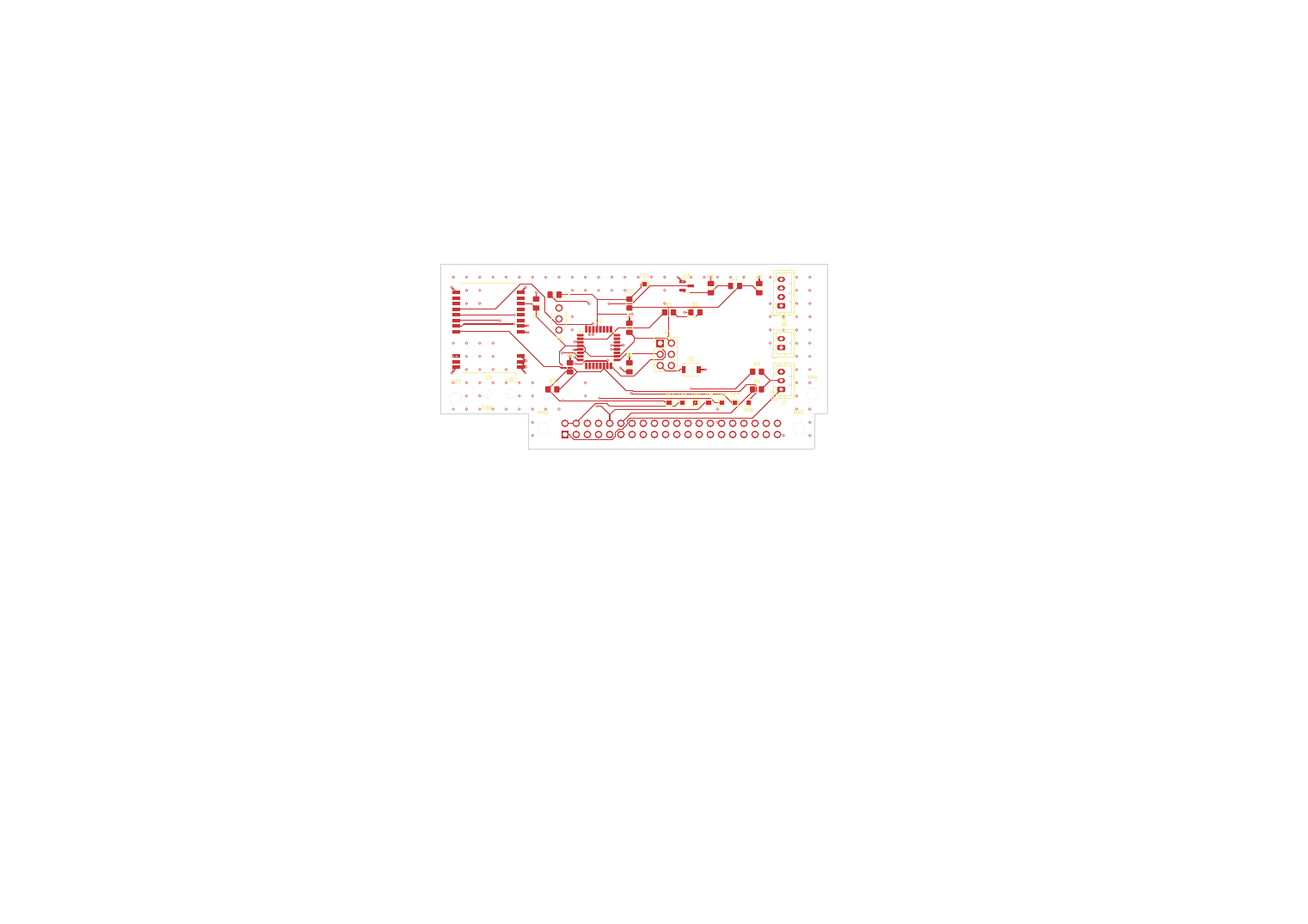
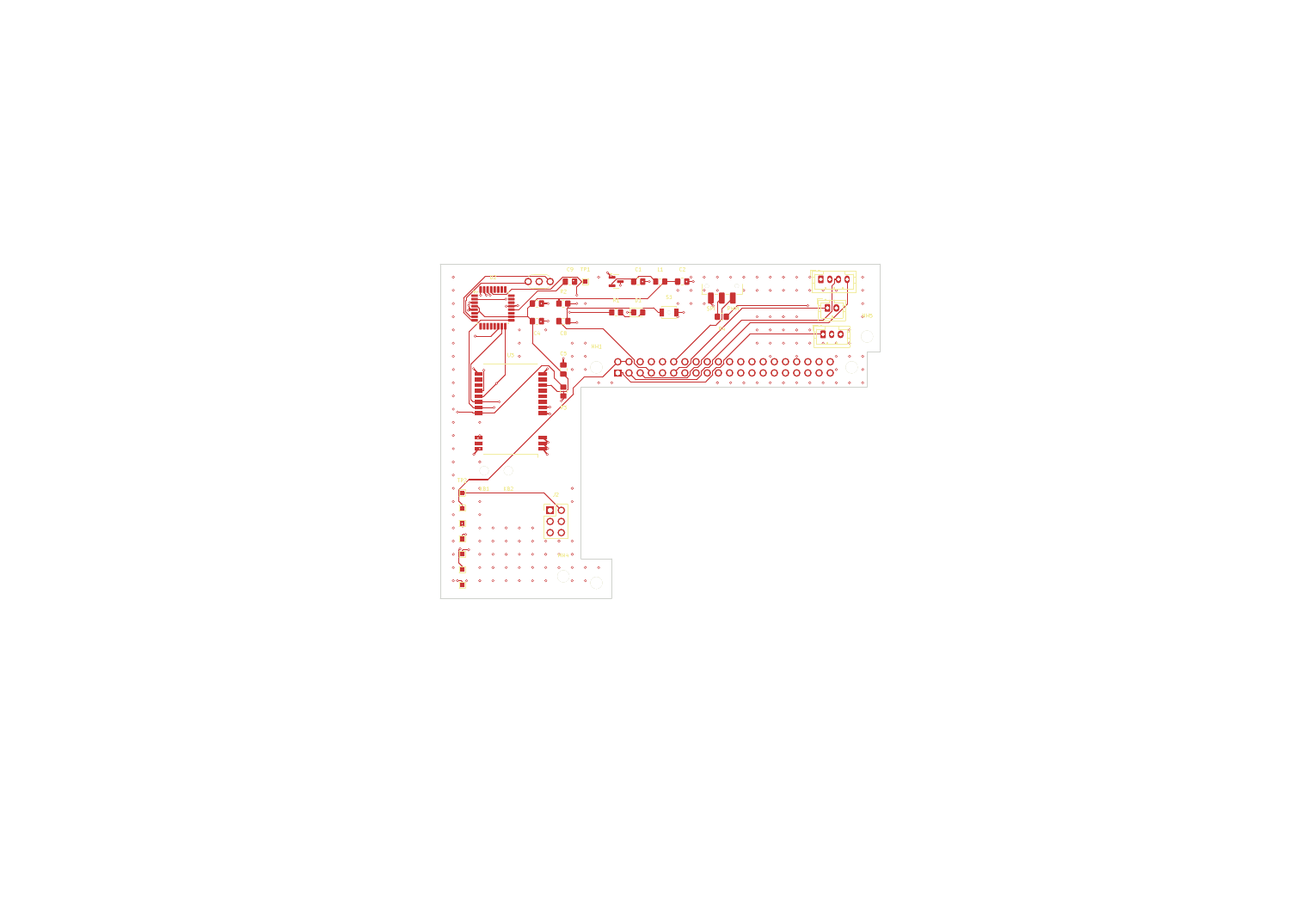
Doku und Handbuch auf Hardware v0.2.0 und das Protokoll nachgezogen
Die Platine geht in Produktion — also muss die Doku stimmen. Durchgesehen
und korrigiert:

README: Bauform L-foermig 100 x 76 mm statt der alten T-Beschreibung, der
Schiebeschalter SW1 statt der Regel „R4 oder R5", Projektstand auf „in
Produktion", Protokoll (M13) in die Tabelle und den Verzeichnisbaum.

Bestellliste: R5 (0 Ohm) entfaellt, dafuer R4 = 330 Ohm und der Schalter
C&K JS102011SAQN; der Hinweis zur JLCPCB-Bestueckung nennt die neuen
Teilenummern.

Handbuch (jetzt 64 Seiten):
- Kapitel 4: Bauteilgruppen mit SW1 und R4, neuer Kasten „Der Schalter
  SW1: PWM oder SPI" mit der Begruendung je Pi-Generation, Bildunterschrift
  mit den tatsaechlichen Massen.
- Kapitel 5: Umriss L-foermig 100 x 76, Schalter in der Bestueckungstabelle,
  keine unbestueckten Plaetze mehr.
- Kapitel 10.3: aus dem R5-Kasten wird die Schalterstellung.
- **Neues Kapitel 22 „Protokoll: wenn etwas nicht stimmt"** — die vier
  Stufen, Aufbewahrung, was mitgeschrieben wird, warum Unterspannung sofort
  als Fehler erscheint, das mitgelesene Systemjournal und eine
  Schritt-fuer-Schritt-Anleitung fuer den Ausfall. Fehlersuche und Anhang
  entsprechend auf 23 und 24 verschoben, Inhaltsverzeichnis angepasst.
- Fehlersuche: Zeile zur dunklen Status-LED nennt jetzt Schalterstellung,
  Audio und SPI; Pin-Tabelle auf SW1 umgestellt.
- Platinenbilder (oben, unten, schraeg) neu gerendert — sie zeigen die
  tatsaechliche L-Platine samt der Beschriftung SPI/PWM.

Changed region(s): [[0.3399, 0.2763, 0.6489, 0.4912], [0.3399, 0.5219, 0.3708, 0.6447], [0.4017, 0.5219, 0.4326, 0.5833]]

diff --git a/docs/handbuch/handbuch.html b/docs/handbuch/handbuch.html
@@ -164,8 +164,9 @@ sudo apt update</pre>
   <li><span class="nr">19</span> Langzeitdaten: InfluxDB und Grafana</li>
   <li><span class="nr">20</span> Der ioBroker-Adapter</li>
   <li><span class="nr">21</span> Sicherheit: Token, Netzwerk, Grenzen</li>
-  <li><span class="nr">22</span> Fehlersuche</li>
-  <li><span class="nr">23</span> Anhang: Belegungen, Glossar, Quellen</li>
+  <li><span class="nr">22</span> Protokoll: wenn etwas nicht stimmt</li>
+  <li><span class="nr">23</span> Fehlersuche</li>
+  <li><span class="nr">24</span> Anhang: Belegungen, Glossar, Quellen</li>
 </ol>
 </div>
 
@@ -360,9 +361,12 @@ es da sitzt.</p>
 
 <figure class="rahmen">
   <img src="img/platine-oben.png" alt="Platine von oben">
-  <figcaption>Die Platine von oben. Der schmale <strong>Arm</strong> unten trägt die
-  2×20-Buchse (J1) und ragt über den Pi; der breite <strong>Körper</strong> mit allen
-  Bauteilen liegt daneben.</figcaption>
+  <figcaption>Die Platine von oben, 100 × 76 mm. Der schmale <strong>Arm</strong>
+  trägt die 2×20-Buchse (J1) und ragt 8 mm über den Pi; der <strong>Streifen</strong>
+  darüber liegt neben dem Pi (höchstens 20 mm breit), der <strong>Schenkel</strong>
+  links steht 32 mm hinter der SD-Kante und trägt das Funkmodul. Über dem Pi liegt
+  sonst nur eine kleine Nase am hinteren Befestigungsloch — der Lüfter des PoE-HAT
+  bleibt frei.</figcaption>
 </figure>
 
 <h2>4.1 Warum diese T-Form?</h2>
@@ -405,16 +409,28 @@ der Platinenunterseite.</div>
 <tr><td><strong>Reset-Strecke</strong></td><td>C8, R2, S1, TP1</td><td>Über GPIO4 des Pi kann der Mikrocontroller neu gestartet werden (für Firmware-Updates, Kapitel 11). C8 koppelt nur den Impuls, R2 hält die Leitung in Ruhe oben, S1 ist der Taster für den Handreset.</td></tr>
 <tr><td><strong>SPI-Verteilung</strong></td><td>R3</td><td>Mikrocontroller, Funkmodul und Programmieranschluss teilen sich den SPI-Bus. R3 sorgt dafür, dass das Funkmodul still ist, während programmiert wird.</td></tr>
 <tr><td><strong>Status-LED</strong></td><td>R1, D1</td><td>Blitzt bei jedem empfangenen Telegramm kurz auf.</td></tr>
-<tr><td><strong>Peripherie</strong></td><td>J5, J6, J7, R5, (R4)</td><td>Stecker für OLED-Display, Taster und WS2812-LED des Status-LED-Projekts. R5 (0 Ω) führt die LED-Datenleitung zum SPI-Pin des Pi.</td></tr>
+<tr><td><strong>Peripherie</strong></td><td>J5, J6, J7, SW1, R4</td><td>Stecker für OLED-Display, Taster und WS2812-LED des Status-LED-Projekts. Der Schiebeschalter SW1 an der Außenkante wählt, über welchen Pi-Pin die LED-Daten laufen; R4 (330 Ω) ist der gemeinsame Serienwiderstand dahinter.</td></tr>
 <tr><td><strong>Prüfpunkte</strong></td><td>TP1–TP8</td><td>Kleine Messpads für Multimeter und Fehlersuche (Belegung im Anhang).</td></tr>
 </table>
 
-<div class="hinweis box"><span class="titel">ℹ R5 oder R4 — nie beide</span>
-Die WS2812-LED kann vom Pi über zwei verschiedene Pins angesteuert werden:
-<strong>GPIO10</strong> (SPI, der Normalfall → R5 bestückt — diesen Weg nutzt die
-Analyzer-Software) oder <strong>GPIO18</strong> (PWM-Variante → stattdessen R4
-bestücken). R4 bleibt in der Standardbestückung leer — die leeren Pads sind
-kein Fehler.</div>
+<div class="hinweis box"><span class="titel">ℹ Der Schalter SW1: PWM oder SPI</span>
+Die WS2812-LED kann vom Pi über zwei verschiedene Pins angesteuert werden, und
+seit Hardware v0.2.0 wählt das ein kleiner Schiebeschalter an der Außenkante —
+kein Umlöten mehr. Der Bestückungsdruck beschriftet beide Stellungen:
+<ul style="margin:1mm 0">
+<li><strong>SPI</strong> (GPIO10) — Vorgabe auf dem <strong>Raspberry Pi 5</strong>.
+Dort scheiden die PWM-Bibliotheken aus, weil die Anschlüsse am RP1-Chip hängen.</li>
+<li><strong>PWM</strong> (GPIO18) — Vorgabe auf <strong>Pi 3 und Pi 4</strong>.
+Dort wandert der SPI-Takt mit dem Kerntakt des Prozessors, was das empfindliche
+Zeitraster der LED zerreißt (Flackern, Farbsprünge).</li>
+</ul>
+Der Installer erkennt das Modell und stellt die Software passend ein; der
+Schalter muss dazu passen. Umstellen lässt sich beides jederzeit unter
+<strong>Einstellungen → Status-LED &amp; OLED</strong>.
+<br><br>Die Beschriftung benennt die <em>Anschlüsse</em>. Ob der Schieber zur
+beschrifteten Seite hin schaltet oder von ihr weg, gibt der Hersteller nicht
+frei zugänglich an — mit einem Durchgangsprüfer ist es beim ersten Aufbau in
+zehn Sekunden geklärt.</div>
 
 <figure class="rahmen">
   <img src="img/platine-unten.png" alt="Platine von unten">
@@ -449,7 +465,7 @@ funktionieren analog.</p>
 wählen. Die komplette ZIP hochladen — das Portal findet die Gerber-Dateien im
 Unterordner selbst. (Falls nicht: nur den Inhalt von <code>gerber/</code> als
 eigene ZIP hochladen.)</li>
-<li>Die Vorschau prüfen: T-förmiger Umriss, 88 × 42 mm. Erkennt das Portal
+<li>Die Vorschau prüfen: <strong>L-förmiger</strong> Umriss, 100 × 76 mm. Erkennt das Portal
 <strong>4 Lagen</strong> und <strong>1,6 mm</strong> Dicke, passt alles — beide Werte
 stehen im mitgelieferten Jobfile.</li>
 <li>Optionen: Standardwerte genügen. Lötstopplack-Farbe nach Geschmack;
@@ -475,15 +491,17 @@ Resonator Y1 — es fehlen nur noch Funkmodul und Steckverbinder.</li>
 <tr><td>Y1</td><td>Resonator Murata CSTLS8M00G53-B0 <span class="klein">(bedrahtet — JLCPCB lötet ihn in der Welle mit)</span></td><td>C83707</td><td>Extended</td></tr>
 <tr><td>L1</td><td>Ferrit BLM21PG300SN1D</td><td>C16903</td><td>Extended</td></tr>
 <tr><td>D1</td><td>LED rot 0805</td><td>C84256</td><td>Basic</td></tr>
-<tr><td>R1 / R5 / R2,R3</td><td>330 Ω / 0 Ω / 10 kΩ</td><td>C17630 / C17477 / C17414</td><td>Basic</td></tr>
+<tr><td>R1, R4 / R2, R3</td><td>330 Ω / 10 kΩ</td><td>C17630 / C17414</td><td>Basic</td></tr>
+<tr><td>SW1</td><td>Schiebeschalter C&amp;K JS102011SAQN <span class="klein">(wählt PWM oder SPI für die LED-Daten)</span></td><td>C221660</td><td>Extended</td></tr>
 <tr><td>C1,C2</td><td>10 µF 25 V</td><td>C15850</td><td>Basic</td></tr>
 <tr><td>C3–C5,C8,C9</td><td>100 nF 50 V</td><td>C49678</td><td>Basic</td></tr>
 </table>
 
-<p><strong>Nicht bestückt werden:</strong> das Funkmodul U3 (führt JLCPCB nicht),
-R4 (absichtlich leer — die PWM-Alternative zu R5) sowie die bedrahteten
-Steckverbinder J1, J2 und J5–J7. Die kommen in Kapitel 6 von Hand drauf.
-Der Resonator Y1 ist zwar auch bedrahtet, wird aber von JLCPCB mitbestückt.</p>
+<p><strong>Nicht bestückt werden:</strong> das Funkmodul U3 (führt JLCPCB nicht)
+und die bedrahteten Steckverbinder J1, J2 und J5–J7. Die kommen in Kapitel 6
+von Hand drauf. Der Resonator Y1 ist zwar auch bedrahtet, wird aber von JLCPCB
+mitbestückt. Unbestückte Plätze gibt es seit v0.2.0 keine mehr — die frühere
+Regel „R4 oder R5" hat der Schiebeschalter SW1 abgelöst.</p>
 
 <h2>5.4 Die Bestückungsvorschau richtig prüfen</h2>
 <div class="achtung box"><span class="titel">⚠ Zwei Minuten, die eine Charge retten</span>
@@ -983,15 +1001,19 @@ passt richtig. Softwareseitig sind Display, Taster und LED inzwischen
 Dienst, keine eigene Anleitung mehr nötig. Alles Weitere (Aktivieren,
 Farben, Anzeigeseiten) steht in Kapitel 18.</p>
 
-<div class="achtung box"><span class="titel">⚠ Für die LED: R5 muss bestückt sein</span>
-Die WS2812-Datenleitung an J7 kann von zwei Pi-Pins kommen:
-<strong>R5</strong> (0 Ω, GPIO10/SPI) oder <strong>R4</strong> (390 Ω,
-GPIO18/PWM) — genau <em>einer</em> von beiden wird bestückt. Die
-Analyzer-Software steuert die LED über <strong>SPI</strong>, braucht also
-<strong>R5</strong>. Platinen aus der JLCPCB-Bestückung (Kapitel 5) haben
-R5 bereits drauf. Nur falls deine Platine noch nach der alten Vorgabe mit
-R4 bestückt ist: R4 auslöten, an R5 einen 0-Ω-Widerstand (oder eine
-Lötbrücke) setzen.</div>
+<div class="achtung box"><span class="titel">⚠ Für die LED: Schalter SW1 richtig stellen</span>
+Die WS2812-Datenleitung an J7 kann von zwei Pi-Pins kommen. Welcher es ist,
+wählt der Schiebeschalter <strong>SW1</strong> an der Außenkante der Platine —
+seine beiden Stellungen sind im Bestückungsdruck mit <strong>PWM</strong> und
+<strong>SPI</strong> beschriftet:
+<ul style="margin:1mm 0">
+<li>Auf einem <strong>Raspberry Pi 5</strong>: Stellung <strong>SPI</strong>.</li>
+<li>Auf einem <strong>Pi 3 oder Pi 4</strong>: Stellung <strong>PWM</strong>.</li>
+</ul>
+Der Installer erkennt das Modell und stellt die Software passend ein — der
+Schalter muss zur eingestellten Betriebsart passen, sonst bleibt die LED
+dunkel. Nachträglich umstellen: <strong>Einstellungen → Status-LED &amp;
+OLED</strong>, dort steht die gewählte Ansteuerung im Klartext.</div>
 
 <!-- ==================================================== KAPITEL 11 -->
 <h1 class="kapitel"><span class="knr">11</span>Firmware-Updates im laufenden Betrieb</h1>
@@ -1373,7 +1395,7 @@ Token-Pflicht muss deren Token beim Verknüpfen hinterlegt sein.</p>
 <h1 class="kapitel"><span class="knr">18</span>Status-LED und OLED-Anzeige</h1>
 <div class="kapitelband"></div>
 
-<p>Mit dem Zubehör an J5–J7 (Anschluss: Kapitel 10.3, <strong>R5-Hinweis
+<p>Mit dem Zubehör an J5–J7 (Anschluss: Kapitel 10.3, <strong>SW1-Hinweis
 beachten!</strong>) zeigt der Analyzer seinen Zustand direkt am Gerät — ein
 Blick in den Schrank genügt.</p>
 
@@ -1509,7 +1531,94 @@ nutze VPN (z. B. WireGuard) — keine Portfreigabe ins Internet.</li>
 </ul>
 
 <!-- ==================================================== KAPITEL 22 -->
-<h1 class="kapitel"><span class="knr">22</span>Fehlersuche</h1>
+<h1 class="kapitel"><span class="knr">22</span>Protokoll: wenn etwas nicht stimmt</h1>
+<div class="kapitelband"></div>
+
+<p>Manche Störungen zeigen sich erst nach Stunden — der Analyzer ist plötzlich
+nicht mehr erreichbar, und hinterher weiß niemand, warum. Genau dafür führt die
+Software ein <strong>Protokoll</strong>: eine Textdatei je Tag, in der
+mitgeschrieben wird, was passiert ist. Zu finden unter
+<strong>Wartung</strong> in der Weboberfläche.</p>
+
+<h2>22.1 Die vier Stufen</h2>
+<table>
+<tr><th>Stufe</th><th>Was hineinkommt</th><th>Wann sinnvoll</th></tr>
+<tr><td><strong>Fehler</strong></td><td>Nur Störungen</td><td>Dauerbetrieb, kleinste Datei</td></tr>
+<tr><td><strong>Info</strong></td><td>Störungen und wichtige Ereignisse</td><td><strong>Vorgabe</strong></td></tr>
+<tr><td><strong>Debug</strong></td><td>Zusätzlich Abläufe im Inneren</td><td>Fehlersuche</td></tr>
+<tr><td><strong>Alles</strong></td><td>Auch einzelne Telegramme</td><td>Kurzzeitig, wächst schnell</td></tr>
+</table>
+
+<p>Daneben stellst du ein, wie viele <strong>Tage</strong> aufgehoben werden
+(1 bis 365). Beim Tageswechsel legt der Dienst eine neue Datei an und löscht,
+was älter ist als die Frist. Beides wirkt sofort, ohne Neustart.</p>
+
+<h2>22.2 Was mitgeschrieben wird</h2>
+
+<p>Neben den Meldungen der Anwendung selbst erhebt der Analyzer <strong>jede
+Minute</strong> die Werte, an denen sich ein Ausfall im Nachhinein festmachen
+lässt — und schreibt sie alle 15 Minuten in eine Zeile:</p>
+
+<table>
+<tr><th>Wert</th><th>Warum er zählt</th></tr>
+<tr><td><strong>Unterspannung und Drosselung</strong></td><td>Mit PoE-HAT und SSD am USB die häufigste Ursache für Einfrieren und harte Neustarts. Der Pi merkt sich auch, ob es seit dem Einschalten <em>schon einmal</em> vorkam.</td></tr>
+<tr><td>Temperatur</td><td>Ab etwa 80 °C drosselt der Pi, ab 85 °C hart.</td></tr>
+<tr><td>Arbeitsspeicher</td><td>Wird er knapp, räumt das System Programme ab — ohne dass diese eine Fehlermeldung hinterlassen.</td></tr>
+<tr><td>Freier Plattenplatz</td><td>Eine volle Systempartition legt Dienste still.</td></tr>
+<tr><td>Systemlast und Laufzeit</td><td>Springt die Laufzeit auf wenige Sekunden, hat das Gerät neu gestartet.</td></tr>
+</table>
+
+<div class="hinweis box"><span class="titel">ℹ Auffälliges kommt sofort</span>
+Wird einer dieser Werte auffällig, landet er <strong>augenblicklich und als
+Fehler</strong> in der Datei — auch dann, wenn die sparsamste Stufe eingestellt
+ist. Man muss also nicht vorsorglich auf „Debug" stellen, um Unterspannung zu
+bemerken.</div>
+
+<h2>22.3 Kam es von uns oder vom System?</h2>
+
+<p>Das eigene Protokoll zeigt nur, was der Analyzer selbst mitbekommt. Ob eine
+Störung <em>aus dem System</em> kam, steht im Journal des Betriebssystems — in
+Zeilen, die unser Programm nie zu sehen bekommt. Der Dienst liest sie deshalb
+mit und übernimmt sie unter <code>[systemlog]</code>: Unterspannungsmeldungen
+des Kernels, abgeräumte Programme bei Speichermangel, neu angemeldete
+USB-Geräte (die Boot-SSD!), Dateisystemfehler, Temperaturnotabschaltungen,
+Kernel-Abstürze.</p>
+
+<p><strong>Nach jedem Start</strong> bewertet der Dienst außerdem, wie der
+vorherige Lauf endete. Fand sich dort keine Abmeldung, steht ganz oben in der
+neuen Tagesdatei:</p>
+
+<pre>FEHLER  [systemlog]  Der vorherige Systemlauf wurde NICHT sauber beendet —
+                     Hinweis auf Stromausfall, Spannungseinbruch oder
+                     Kernel-Absturz, nicht auf einen Fehler dieser Anwendung</pre>
+
+<p>Damit das funktioniert, richtet der Installer zweierlei ein: Der Dienst darf
+das Journal lesen, und das Journal wird <strong>dauerhaft</strong> gespeichert.
+Ab Werk legt Raspberry Pi OS es nur flüchtig im Arbeitsspeicher ab — nach einem
+harten Absturz wäre genau der interessante Teil verloren.</p>
+
+<h2>22.4 So gehst du bei einem Ausfall vor</h2>
+<ol class="schritte">
+<li><strong>Wartung</strong> öffnen, Stufe auf <strong>Debug</strong> stellen.</li>
+<li>Nach dem nächsten Ausfall die Datei des Tages <strong>herunterladen</strong>
+(Spalte „Herunterladen" in der Dateiliste).</li>
+<li>In der Datei nach <code>FEHLER</code> und nach <code>[system]</code> suchen.
+Steht dort <em>Unterspannung</em>, ist die Stromversorgung die Ursache — dann
+hilft kein Software-Update, sondern ein kräftigeres Netzteil beziehungsweise
+ein PoE-Injektor mit mehr Reserve.</li>
+<li>Bricht das Protokoll <strong>mitten im Betrieb</strong> ab, ohne Fehlerzeile
+davor, war es kein Programmfehler: Dann hat das System selbst ausgesetzt. Die
+letzten Systemzeilen davor zeigen, wie die Lage kurz vorher war.</li>
+</ol>
+
+<p>Die Datei ist bewusst in festen Spalten geschrieben, damit sie sich sowohl
+lesen als auch durchsuchen lässt:</p>
+
+<pre>2026-07-31 08:12:33.123  FEHLER  [ingest]     Port weg (EIO)
+2026-07-31 08:12:34.001  INFO    [system]     Temperatur 62,3 °C · Speicher frei 940 MB</pre>
+
+<!-- ==================================================== KAPITEL 23 -->
+<h1 class="kapitel"><span class="knr">23</span>Fehlersuche</h1>
 <div class="kapitelband"></div>
 
 <table>
@@ -1531,13 +1640,13 @@ nutze VPN (z. B. WireGuard) — keine Portfreigabe ins Internet.</li>
 <tr><td>Flotten-Update meldet „Auth-Token fehlt"</td><td>Peer verlangt Token, keines hinterlegt</td><td>Peer entfernen und mit seinem Token neu verknüpfen (<em>Einstellungen → Verbund</em>)</td></tr>
 <tr><td>Dienst startet nicht, Journal zeigt <code>listen EACCES … :80</code></td><td>Port unter 1024 gewählt; der Dienst läuft ohne Rechte dafür</td><td>Seit dieser Fassung bringt die Unit <code>AmbientCapabilities=CAP_NET_BIND_SERVICE</code> mit — <code>sudo asksin-analyzer update</code> genügt. Alternativ in <code>/etc/asksin-analyzer/config.json</code> einen Port ab 1024 eintragen (8080) und <code>sudo asksin-analyzer restart</code></td></tr>
 <tr><td><code>Permission denied</code> auf <code>/dev/spidev0.0</code> oder <code>/dev/i2c-1</code></td><td>Dienstbenutzer nicht in den Gruppen <code>spi</code>/<code>i2c</code></td><td><code>sudo asksin-analyzer update</code> zieht die Gruppen nach; danach <code>sudo systemctl restart asksin-analyzer</code></td></tr>
-<tr><td>Status-LED bleibt dunkel</td><td>R4 statt R5 bestückt oder SPI aus</td><td>Kapitel 10.3 (R5-Kasten!); SPI per Installer-Frage oder <code>raspi-config</code> aktivieren; Übersicht zeigt „LED gestört" mit Ursache</td></tr>
+<tr><td>Status-LED bleibt dunkel</td><td>Schalter SW1 steht auf der anderen Betriebsart, oder SPI bzw. das Onboard-Audio ist nicht passend eingestellt</td><td>Kapitel 10.3 (SW1-Kasten): Schalterstellung mit <strong>Einstellungen → Status-LED &amp; OLED</strong> abgleichen. Auf Pi 3/4 muss zusätzlich das Onboard-Audio aus sein, auf Pi 5 der SPI-Bus an. Die Übersicht zeigt „LED gestört" mit Ursache</td></tr>
 <tr><td>OLED bleibt dunkel</td><td>I²C nicht aktiv oder Kabelbelegung</td><td><code>sudo raspi-config</code> → I²C aktivieren; <code>i2cdetect -y 1</code> muss <code>3c</code> zeigen; J5-Belegung gegen Kapitel 10.3 prüfen</td></tr>
 <tr><td>1-Wire-Sensoren funktionieren nicht mehr</td><td><code>w1-gpio</code> kollidiert mit GPIO4 (Reset)</td><td>In <code>config.txt</code>: <code>dtoverlay=w1-gpio,gpiopin=17</code> o. ä. — nicht GPIO4</td></tr>
 </table>
 
 <!-- ==================================================== KAPITEL 14 -->
-<h1 class="kapitel"><span class="knr">23</span>Anhang</h1>
+<h1 class="kapitel"><span class="knr">24</span>Anhang</h1>
 <div class="kapitelband"></div>
 
 <h2>23.1 Belegung des Pi-Headers (genutzte Pins)</h2>
@@ -1550,8 +1659,8 @@ nutze VPN (z. B. WireGuard) — keine Portfreigabe ins Internet.</li>
 <tr><td>8</td><td>GPIO14 (TXD)</td><td>Pi sendet → Mikrocontroller</td></tr>
 <tr><td>10</td><td>GPIO15 (RXD)</td><td>Mikrocontroller sendet → Pi (der Telegrammstrom)</td></tr>
 <tr><td>11</td><td>GPIO17</td><td>Taster (J6)</td></tr>
-<tr><td>12</td><td>GPIO18</td><td>WS2812-Alternative über R4 (unbestückt)</td></tr>
-<tr><td>19</td><td>GPIO10</td><td>WS2812-Daten über R5 (J7)</td></tr>
+<tr><td>12</td><td>GPIO18</td><td>WS2812-Daten, Schalter SW1 auf PWM (J7)</td></tr>
+<tr><td>19</td><td>GPIO10</td><td>WS2812-Daten, Schalter SW1 auf SPI (J7)</td></tr>
 <tr><td>6, 9, 14, 20, 25, 30, 34, 39</td><td>GND</td><td>Masse</td></tr>
 </table>
 

diff --git a/README.md b/README.md
@@ -24,7 +24,7 @@ laufenden Gerät.
 
 | Baustein | Stand |
 | --- | --- |
-| **Hardware v0.2.0** (T-Platine neben dem Pi) | ✅ fertig entworfen, DRC 0 Fehler / 0 Warnungen — J1 korrigiert |
+| **Hardware v0.2.0** (L-Platine neben dem Pi) | ✅ **in Produktion** (31.07.2026) — DRC/ERC 0/0, 26 Fertigungsprüfungen bestanden |
 | Fertigungsdaten (Gerber, BOM, CPL, JLCPCB) | ✅ [`hardware/kicad/fab/`](hardware/kicad/fab/) + Archiv |
 | J1-Rettungsadapter für die Chargen v0.0.1 | ✅ [`hardware/kicad/adapter/`](hardware/kicad/adapter/README.md) |
 | Firmware | ✅ unveränderter `AskSinSniffer328P` (jp112sdl) |
@@ -38,6 +38,7 @@ laufenden Gerät.
 | Status-LED + OLED integriert | ✅ Software fertig (M11) — Hardware-Test steht aus ([`docs/status-led-oled.md`](docs/status-led-oled.md)) |
 | Einkaufsführer Zubehör (README + Handbuch) | 📋 geplant (M12, [`docs/einkaufsfuehrer.md`](docs/einkaufsfuehrer.md)) |
 | Verbund: 5 Analyzer als Gesamtsystem | ✅ komplett: Dashboard, Matrix+Dedup, Flotten-Update, Langzeitdaten nach InfluxDB (M9.1–M9.5, [`docs/verbund.md`](docs/verbund.md)) |
+| Protokoll und Absturzsuche (Tab „Wartung“) | ✅ fertig (M13): Stufen, Tagesrotation, Download, Systemjournal ([`docs/protokoll.md`](docs/protokoll.md)) |
 | ioBroker-Adapter | 🔨 Grundgerüst steht (M6, eigenes Repo [`ioBroker.asksinanalyzer-rpi`](https://github.com/ssbingo/ioBroker.asksinanalyzer-rpi), MIT, mehrinstanzfähig) |
 
 ## Installation auf dem Raspberry Pi
@@ -74,6 +75,8 @@ docs/
 ├── raspberry-pi-uart.md  UART-Konfiguration Pi 3/4/5
 ├── webui-und-updates.md  API-Vertrag der Web-UI, Update-Pfade, Lizenzlage
 ├── verbund.md            Phase M9: fünf Analyzer als Gesamtsystem (Föderation)
+├── protokoll.md          Phase M13: Protokoll, Systemjournal, Absturzsuche
+├── status-led-oled.md    Phase M11: Status-LED (PWM/SPI) und OLED
 └── handbuch/             das Handbuch (HTML-Quelle, Bilder, PDF)
 reference/                Originalprojekte (nicht eingecheckt — siehe unten)
 ```
@@ -82,10 +85,12 @@ reference/                Originalprojekte (nicht eingecheckt — siehe unten)
 
 Die Funkseite bleibt beim bewährten Gespann **ATmega328P + CC1101** mit der
 unveränderten `AskSinSniffer328P`-Firmware — kein Fork, wer will flasht die
-Original-HEX. Die Platine ist ein T-förmiger Aufsatz, der auf den
-durchgeschleiften Header des PoE-HAT gesteckt wird; der Körper liegt
-**parallel neben dem Pi** an der Header-Seite und deckt keine Buchse ab —
-das Funkmodul sitzt im hinteren Überstand, weit weg vom Störnebel. Die Antenne verlässt das
+Original-HEX. Die Platine ist ein **L-förmiger** Aufsatz, der auf den
+durchgeschleiften Header des PoE-HAT gesteckt wird; der Streifen liegt
+**parallel neben dem Pi** an der Header-Seite, höchstens 20 mm breit, und
+deckt keine Buchse ab. Der Schenkel steht 32 mm **hinter** der SD-Kante —
+dort sitzt das Funkmodul, weit weg vom Störnebel und direkt am rückwärtigen
+Antennen-Keystone. Die Antenne verlässt das
 Ebyte-Modul per IPEX — auf der Platine existiert **keine einzige HF-Leitung**.
 Der bekannte 2,12-%-Baudratenfehler der 8-MHz-Klasse wird nicht in der
 Firmware „repariert", sondern auf der Pi-Seite kompensiert: der Port läuft mit
@@ -139,11 +144,20 @@ treibt ihren Pin aktiv auf HIGH, der Strom hätte gegen die Diodenrichtung
 fließen müssen. Die LED konnte nie leuchten. Betrifft ebenfalls alle bisher
 gefertigten Platinen; rein kosmetisch, der Funkempfang war nie beeinträchtigt.
 
-**Neue Bauform:** T-förmig statt L-förmig. Der Körper (88 × 34 mm) liegt
-parallel neben dem Pi an der Header-Seite und steht nach hinten 20 mm über —
-er deckt **keine Buchse** mehr ab, was den 19-Zoll-Einbau erst möglich macht.
-Das Funkmodul sitzt im hinteren Überstand (Antennen-Keystone), die
-Peripheriestecker an der Frontkante (OLED-/LED-/Taster-Einsatz).
+**Neue Bauform:** L-förmig, 100 × 76 mm. Der Streifen (100 × 20 mm) liegt
+parallel neben dem Pi an der Header-Seite und ist **höchstens 20 mm breit**;
+der Schenkel steht **32 mm hinter der SD-Kante**. Über dem Pi liegt nur der
+8 mm tiefe Arm für die 2×20-Buchse und eine 7 × 9 mm große Nase am hinteren
+Befestigungsloch — der Lüfter des PoE-HAT bleibt frei. Nach vorn endet die
+Platine 17 mm **vor** dem Pi, damit sie den Keystone-Modulen im 19-Zoll-Einbau
+nicht in die Quere kommt. Das Funkmodul sitzt im Schenkel (Antennen-Keystone),
+die Peripheriestecker an der Frontkante (OLED-/LED-/Taster-Einsatz).
+
+**Umschalter statt Bestückungsvariante:** Der SMD-Schiebeschalter **SW1** an
+der Außenkante wählt zwischen PWM (GPIO18) und SPI (GPIO10) für die
+WS2812-Datenleitung; dahinter liegt ein gemeinsamer 330-Ω-Widerstand. Die
+frühere Regel „R4 **oder** R5 bestücken" entfällt — der Bestückungsdruck ist
+mit **PWM** und **SPI** beschriftet.
 
 Routing-Kette überarbeitet: Masseflächen nur noch auf den Innenlagen, jedes
 SMD-Massepad bekommt sein Stützvia vor dem Routen, alle Vias getentet, und
@@ -173,7 +187,7 @@ Status-LED und OLED (M11): die Funktionen des Status-LED-OLED-Projekts,
 vollständig integriert. Hardware unverändert (0.0.1).
 
 **Core/Web-UI 0.0.6**
-- **Status-LED** (WS2812 an J7 über SPI — R5 statt R4 bestücken):
+- **Status-LED** (WS2812 an J7; seit v0.2.0 wählt der Schalter SW1 zwischen PWM und SPI):
   Prioritätsleiter Duty-Cycle-Alarm (rot schnell) > getrennt (rot) >
   Persistenzfehler (gelb) > Demo (orange) > Update (blau atmend) > ok
   (grün); eigene SPI-Bit-Kodierung, keine native Bibliothek

diff --git a/hardware/bestellliste-reichelt.md b/hardware/bestellliste-reichelt.md
@@ -13,8 +13,8 @@ verifiziert.
 > braucht von dieser Liste nur noch die **Handbestückungs-Teile**: U3
 > (Funkmodul), J1, J2, J5–J7 sowie das Zubehör aus Abschnitt 4. Alles
 > andere — einschließlich Y1 (Resonator, JLCPCB **C83707**), S1 (Taster,
-> JLCPCB **C231329**) und R5 (0 Ω, JLCPCB **C17477**) — lötet JLCPCB.
-> R4 wird **nicht mehr bestückt** (siehe Hinweise unten).
+> JLCPCB **C231329**), R4 (330 Ω, JLCPCB **C17630**) und den Umschalter SW1
+> (JLCPCB **C221660**) — lötet JLCPCB.
 
 ---
 
@@ -41,7 +41,7 @@ Auswahl im Shop.
 | --- | --- | --- | --- | --- |
 | C1, C2 | 2 | Kondensator **10 µF**, 0805, X5R/X7R, ≥ 10 V | `Kondensator 0805 10µ` | ≥ 10 V, besser 16 V |
 | R1 | 1 | Widerstand **330 Ω**, 0805 | `WR08X3300FTL` bzw. `SMD 0805 330` | Reihe wie bei R2/R3: `WR08X…FTL` |
-| R5 | 1 | Widerstand **0 Ω**, 0805 | `SMD 0805 0R` | Brücke der LED-Datenleitung (SPI/GPIO10) — bei JLCPCB-Bestückung schon drauf |
+| R4 | 1 | Widerstand **330 Ω**, 0805 | `WR08X3300FTL` bzw. `SMD 0805 330` | Serienwiderstand der WS2812-Datenleitung — gleicher Wert wie R1 |
 | L1 | 1 | Ferritperle **30 Ω @ 100 MHz**, 0805 | `BLM21P` | Reihe BLM21P, 30 Ω / 4 A |
 | D1 | 1 | LED 0805, **Flussspannung ≈ 2 V** | `EVL 17-21USRC` | ⚠ siehe Hinweis unten — die Farbe ist **nicht** frei wählbar |
 
@@ -82,10 +82,13 @@ die Gegenstücke gleich mit — siehe Abschnitt 4.
 
 ## Hinweise
 
-**R4 wird nicht bestückt** (geändert am 30.07.2026). Die Analyzer-Software
-steuert die WS2812 über **SPI (GPIO10)**, dafür braucht es die 0-Ω-Brücke
-**R5**. R4 (390 Ω, GPIO18) bleibt als unbestückte Alternative für eine
-PWM-Ansteuerung auf der Platine. Bestückt wird R5 **oder** R4, nie beide.
+**Umschalten statt umlöten** (seit Hardware v0.2.0). Die WS2812-Datenleitung
+läuft über den Schiebeschalter **SW1** an der Außenkante: Stellung **SPI**
+(GPIO10, Vorgabe auf dem Pi 5) oder **PWM** (GPIO18, Vorgabe auf Pi 3/4).
+Dahinter liegt **ein** gemeinsamer Serienwiderstand R4 = 330 Ω. Die frühere
+Bestückungsvariante „R4 oder R5" und damit auch R5 selbst entfallen.
+
+Nicht bei Reichelt: der Schalter **C&K JS102011SAQN** (JLCPCB C221660).
 
 **TP1–TP8 sind keine Bauteile**, sondern Prüfpads auf der Platine.
 
@@ -110,7 +113,7 @@ Geprüfte Kandidaten bei Reichelt:
 | --- | --- | --- |
 | R1 | Vorwiderstand Status-LED | ≈ 5 mW (bei roter LED knapp 7 mW) |
 | R2, R3 | Pull-up RESET und CS | je ≈ 1 mW |
-| R5 | Brücke Datenleitung WS2812 | < 1 mW — der Eingang der LED ist hochohmig, Strom fließt nur beim Umladen von rund 15 pF |
+| R4 | Serienwiderstand Datenleitung WS2812 | < 1 mW — der Eingang der LED ist hochohmig, Strom fließt nur beim Umladen von rund 15 pF |
 
 Auch die Spannungsfestigkeit ist ohne Belang: 0805 sind typisch für 150 V
 ausgelegt, auf der Platine liegen maximal 5 V an.
